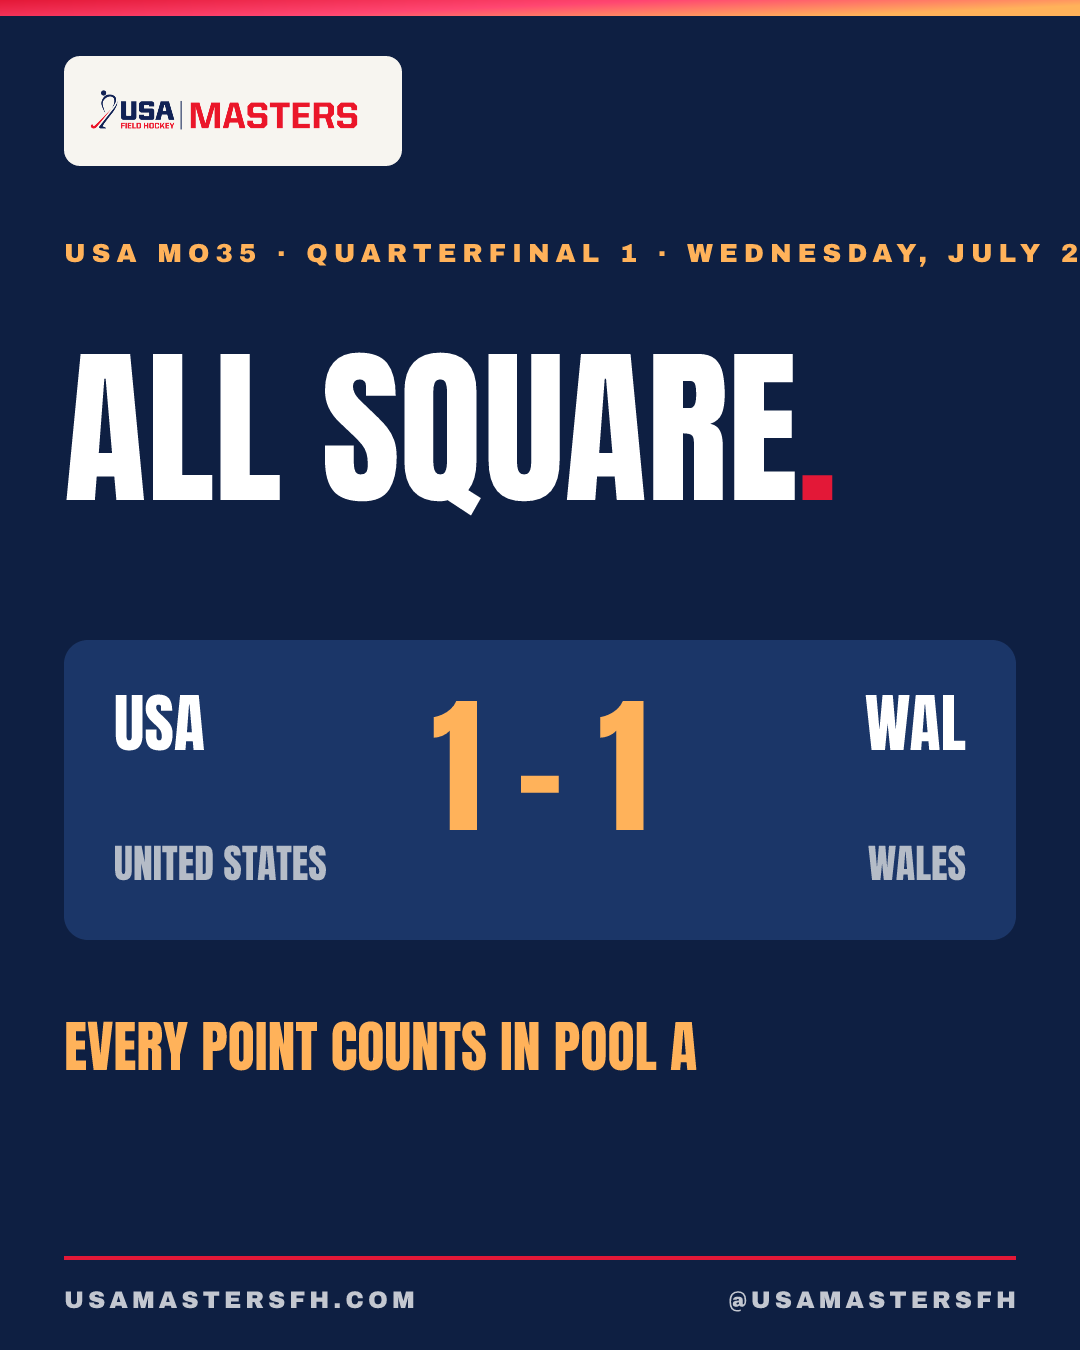
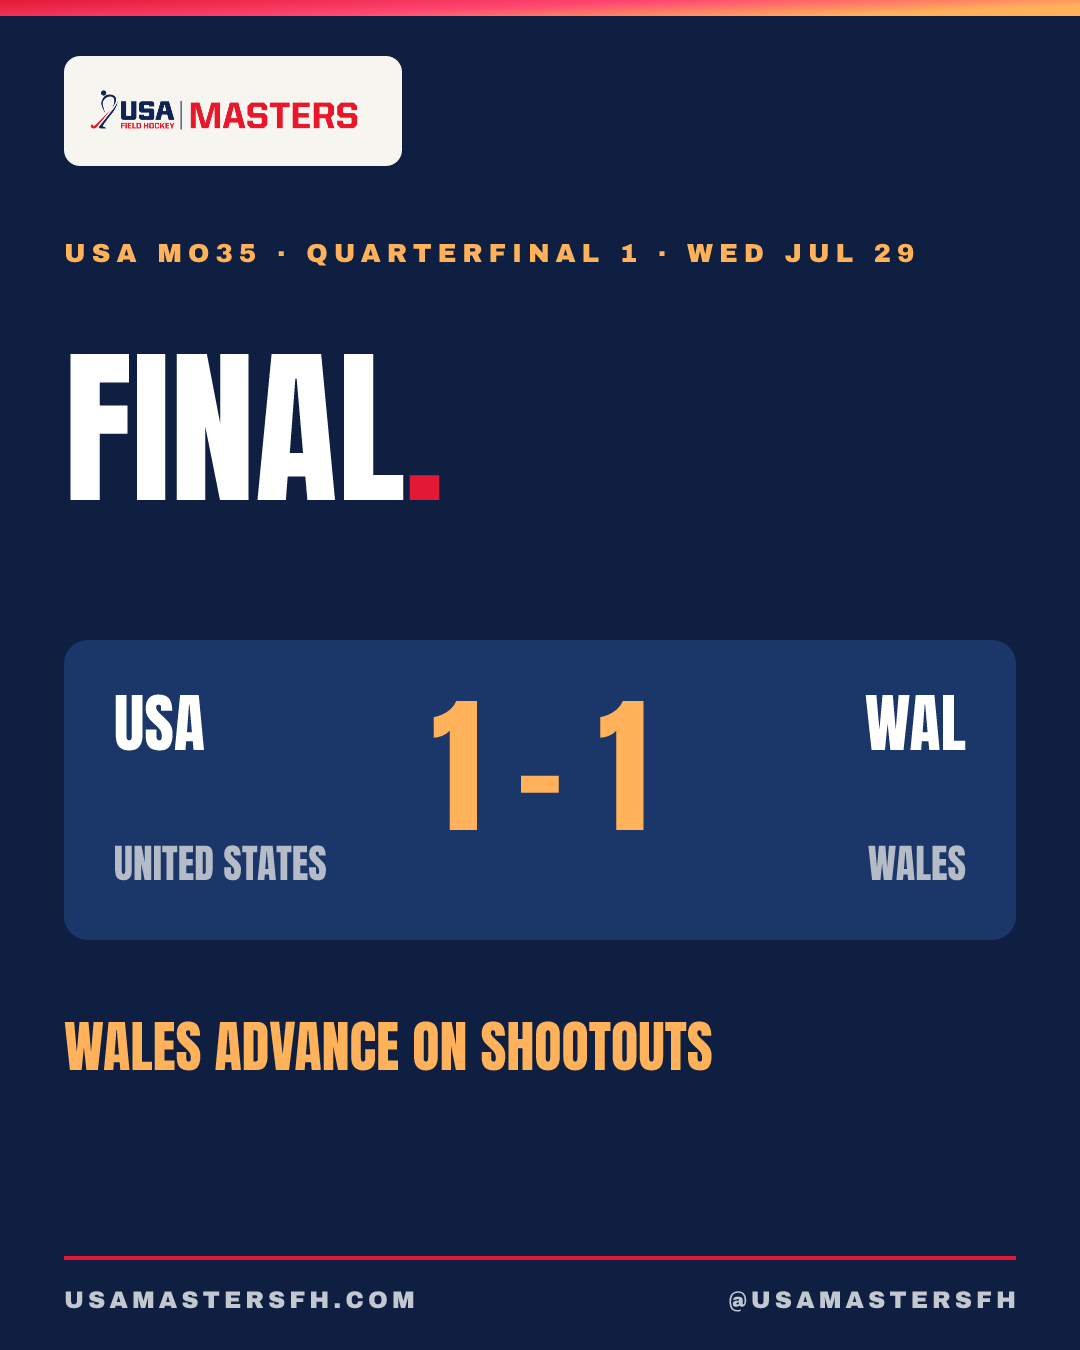
Shootout results: MO35 QF was a shootout loss, not a draw
Knockout entries can carry soWinner; the result slide/caption then
read 'FINAL' with '<team> advance on shootouts', titles get '(SO)',
and the recap shows 'SO Win'/'SO Loss'. Mark Wales as the MO35 QF
shootout winner and regenerate that post and the Jul 29 recap.
Score-slide kickers also switch to short dates ('WED JUL 29') —
'Quarterfinal 1 · Wednesday, July 29' was overflowing the frame.

Claude-Session: https://claude.ai/code/session_01Pz8aiBfnD3acgoEWFEo8fF

diff --git a/js/data.js b/js/data.js
@@ -417,7 +417,7 @@ const KNOCKOUT = [
   { d:"2026-07-29", t:"11:00", div:"M40", label:"Quarterfinal 2 · 3rd vs 6th of Pool A", p:1, ranks:[3,6] },
   { d:"2026-07-29", t:"13:00", div:"M40", label:"Quarterfinal 3 · 2nd vs 7th of Pool A", p:1, ranks:[2,7] },
   { d:"2026-07-29", t:"15:00", div:"M40", label:"Quarterfinal 4 · 1st vs 8th of Pool A", p:1, ranks:[1,8] },
-  { d:"2026-07-29", t:"09:00", div:"M35", label:"Quarterfinal 1 · 4th vs 5th of Pool A", p:2, ranks:[4,5], teams:["USA","WAL"] },
+  { d:"2026-07-29", t:"09:00", div:"M35", label:"Quarterfinal 1 · 4th vs 5th of Pool A", p:2, ranks:[4,5], teams:["USA","WAL"], soWinner:"WAL" },
   { d:"2026-07-29", t:"11:00", div:"M35", label:"Quarterfinal 2 · 3rd vs 6th of Pool A", p:2, ranks:[3,6] },
   { d:"2026-07-29", t:"13:00", div:"M35", label:"Quarterfinal 3 · 2nd vs 7th of Pool A", p:2, ranks:[2,7] },
   { d:"2026-07-29", t:"15:00", div:"M35", label:"Quarterfinal 4 · 1st vs 8th of Pool A", p:2, ranks:[1,8] },
